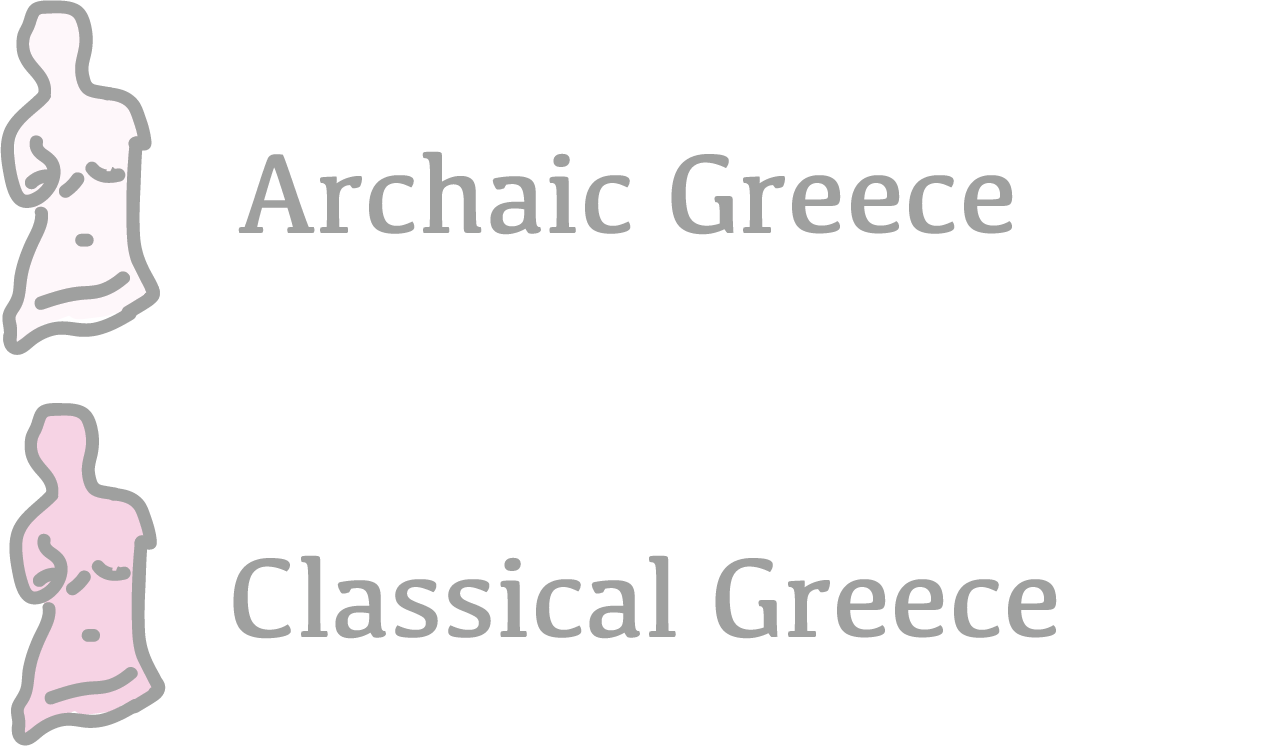
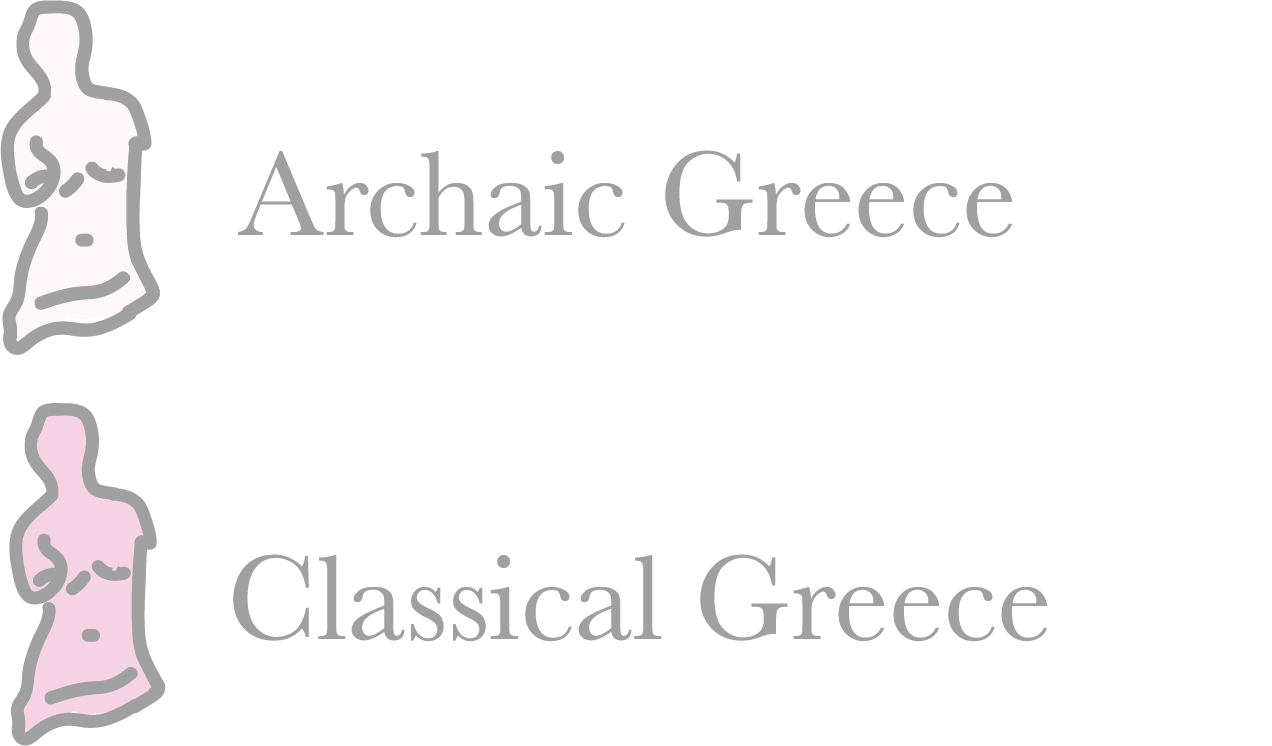
roman pics, text, style, etc

Changed region(s): [[0.184, 0.7399, 0.8278, 0.8633], [0.184, 0.185, 0.4906, 0.3391], [0.5212, 0.185, 0.7972, 0.3391]]

diff --git a/index.html b/index.html
@@ -107,7 +107,7 @@
 
             <div class="row">
                 <div class="right background-white rounded">
-                    <p class="no-margin"><img class="center" src="img/archaic-legend.png">
+                    <p class="no-margin"><img class="center legend-1" src="img/archaic-legend.png">
                 </div>
             </div>
 
@@ -155,7 +155,7 @@
 
             <div class="row">
                 <div class="right background-white rounded">
-                    <p class="no-margin"><img class="center" src="img/classical-legend.png">
+                    <p class="no-margin"><img class="center legend-2" src="img/classical-legend.png">
 
                 </div>
             </div>
@@ -227,7 +227,7 @@
 
             <div class="row">
                 <div class="right background-white rounded">
-                    <p class="no-margin"><img class="center" src="img/hellenistic-legend.png">
+                    <p class="no-margin"><img class="center legend-3" src="img/hellenistic-legend.png">
                 </div>
             </div>
 
@@ -252,10 +252,8 @@
                         appeal and growing emphasis on individual character.</p>
                     <p class="no-margin center"><img src="img/art-hellenistic2.png">
                     <p class="no-margin center slide-caption"><i>Terracotta statuette of a standing girl</i></p>
-        
                 </div>
             </div>
-
 
         </div>
     </div>
@@ -270,28 +268,34 @@
         <img src="img/slide-2.jpg" data-slide="0">
     </div>
 
-    <div class="foreground-item">
+    <div class="foreground-item slide-2">
 
         <div class="row">
             <div class="center">
-                The longevity of both Classical and Hellenistic Greek sculpture is unparalleled. The majority
-                of Greek sculptures from these period were destroyed and recreated by the Romans as a 
-                sign of their sublime allure.
+                The longevity of both Classical and Hellenistic Greek sculpture is <b>unparalled</b>. The majority
+                of Greek sculptures from these periods were eventually destroyed and recreated by the Romans as a 
+                sign of their <b>magnetic</b> and <b>sublime</b> allure.
             </div>
         </div>
 
         <div class="row">
             <div class="left">
-                In the late fourth century BCE, the Romans initiated their plans for expansion.
-                Impressed by the beauty of Greek cities, Roman elites desired works of art that evoked
-                Greek sophistication.
+                <p class="vert-center">In the late fourth century BCE, the Romans initiated their plans for expansion.
+                    Impressed by the beauty of Greek cities, Roman elites desired works of art that evoked
+                    Greek sophistication.
+                </p>
+            </div>
+            <div class="right">
+                <img class="fit img-4" src="img/art-roman.png">
+                <p class="fit roman-caption">Bronze water spout in the form of a lion mask</p>
             </div>
         </div>
 
+
         <div class="row">
-            <div class="right">
-                While the Roman sculptures are indeed divine recreations, the Greek originals that still
-                remain today are the pinnacle of true Grecian masterpiece. 
+            <div class="center">
+                While the Roman sculptures are indeed godly, the Greek originals that
+                remain today are the pinnacle of <b>true masterpiece</b>. 
             </div>
         </div>
 
@@ -308,11 +312,11 @@
             <div id="romanMap" data-slide="3" class="fill vert-center" width="100vw" height="100vh"></div>
         </div>
         <!--foreground text blocks-->
-        <div class="foreground-item no-event">
+        <div class="foreground-item no-event map-2">
 
             <div class="row">
                 <div class="left background-transparent rounded">
-                    <p class="no-margin">These sculptures are but a fragment of the abundance
+                    <p class="no-margin">These sculptures are but a <b>fragment</b> of the abundance
                         the Greeks created. 
                     </p>
 
@@ -322,7 +326,7 @@
             <div class="row">
                 <div class="left background-transparent rounded">
                     <p class="no-margin">This map shows the huge breadth of the once 
-                        mighty and glorious Greek empire. Their art was just as pervasive.
+                        mighty Greek empire. <b>Their art was just as pervasive</b>.
                     </p>
                 </div>
             </div>
@@ -330,25 +334,24 @@
 
             <div class="row">
                 <div class="left background-transparent rounded">
-                    <p class="no-margin">Much of the work of famous Greek sculptors, like Praxiteles,
-                        was destroyed by the Romans. Bronze originals particularly were melted down to 
-                        reuse the metal.
-                    </p>
+                    <p class="no-margin">The Romans typically melted down bronze originals
+                        to reuse the metal.</p>
+                    <p class="no-margin center"><img src="img/art-roman2.png">
+                    <p class="no-margin center slide-caption"><i>Bronze torso of a youth, Greek</i></p>
                 </div>
             </div>
 
 
             <div class="row">
                 <div class="left background-white rounded">
-                    <p class="no-margin"><img class="left" src="img/roman-legend.png">
+                    <p class="no-margin"><img class="center legend-4" src="img/roman-legend.png">
                 </div>
             </div>
 
             <div class="row">
                 <div class="left background-transparent rounded">
                     <p class="no-margin">Because the originals were destroyed, the origins of most of 
-                        the Roman recreations are unknown - Roman replicas have been found primarily near Rome.
-                        Zoom into Rome to see more detail. 
+                        the Roman recreations are unknown - Roman replicas have been found primarily near Rome.</p>
                 </div>
             </div>
 
@@ -804,9 +807,8 @@
                     <a href="https://www.pbs.org/newshour/world/egyptians-call-on-british-museum-to-return-the-rosetta-stone">Egyptians call on British Museum to return the Rosetta stone, PBS</a><br>
                     <a href="https://www.metmuseum.org/toah/hd/argk/hd_argk.htm">Greek Art in the Archaic Period, The Met</a><br>
                     <a href="https://www.metmuseum.org/toah/hd/tacg/hd_tacg.htm">The Art of Classical Greece, The Met</a><br>
-                    <a href="https://www.metmuseum.org/toah/hd/haht/hd_haht.htm">Art of the Hellenistic Age, The Met</a>
-
-                    
+                    <a href="https://www.metmuseum.org/toah/hd/hcyp/hd_hcyp.htm">Hellenistic and Roman Cyprus, The Met</a><br>
+                    <a href="https://www.metmuseum.org/toah/hd/grbr/hd_grbr.htm">The Technique of Bronze Statuary in Ancient Greece</a>
                 </p>
     
             </div>

diff --git a/css/style.css b/css/style.css
@@ -345,8 +345,30 @@
     color:rgb(199, 146, 180);
 }
 
+.legend-1 {
+    padding-left: 60px;
+}
+
+.legend-2 {
+    padding-left: 50px;
+}
+
+.legend-3 {
+    padding-left: 50px;
+}
+
+.legend-4 {
+    padding-right: 50px;
+}
+
 .slide-caption {
     font-size: 18px;
+}
+
+.roman-caption {
+    font-size: 18px;
+    margin-left: 140px;
+    margin-top: 10px;
 }
 
 .slide-1 {
@@ -355,7 +377,19 @@
     color: #c792b4;
 }
 
+.slide-2 {
+    font-size: 24px;
+    font-family: Cambria, Cochin, Georgia, Times, 'Times New Roman', serif;
+    color: #976fa3;
+}
+
 .map-1 {
+    font-size: 24px;
+    font-family: Cambria, Cochin, Georgia, Times, 'Times New Roman', serif;
+    color: rgb(91, 91, 91);
+}
+
+.map-2 {
     font-size: 24px;
     font-family: Cambria, Cochin, Georgia, Times, 'Times New Roman', serif;
     color: rgb(91, 91, 91);
@@ -392,6 +426,11 @@
 .img-3 {
     margin-left: 90px;
     margin-top: 20px;
+}
+
+.img-4 {
+    width: 50%;
+    margin-left: 160px;
 }
 
 .milos {
